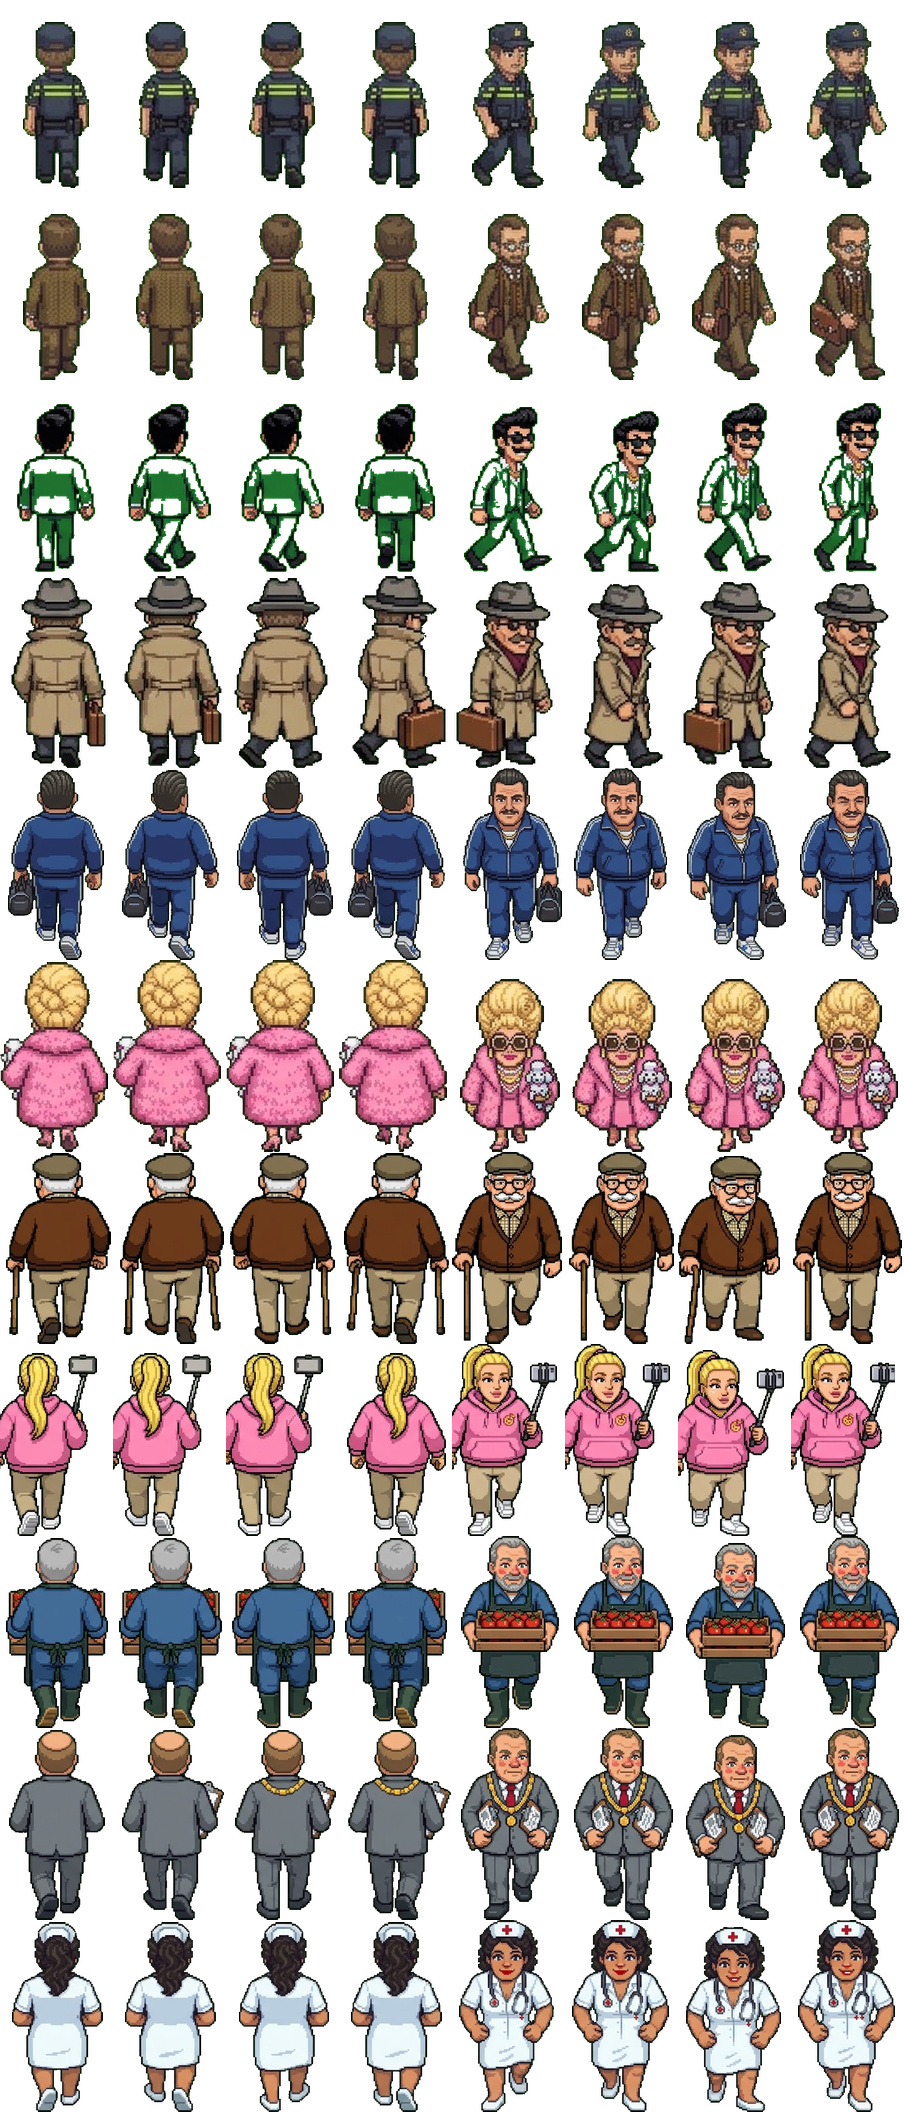
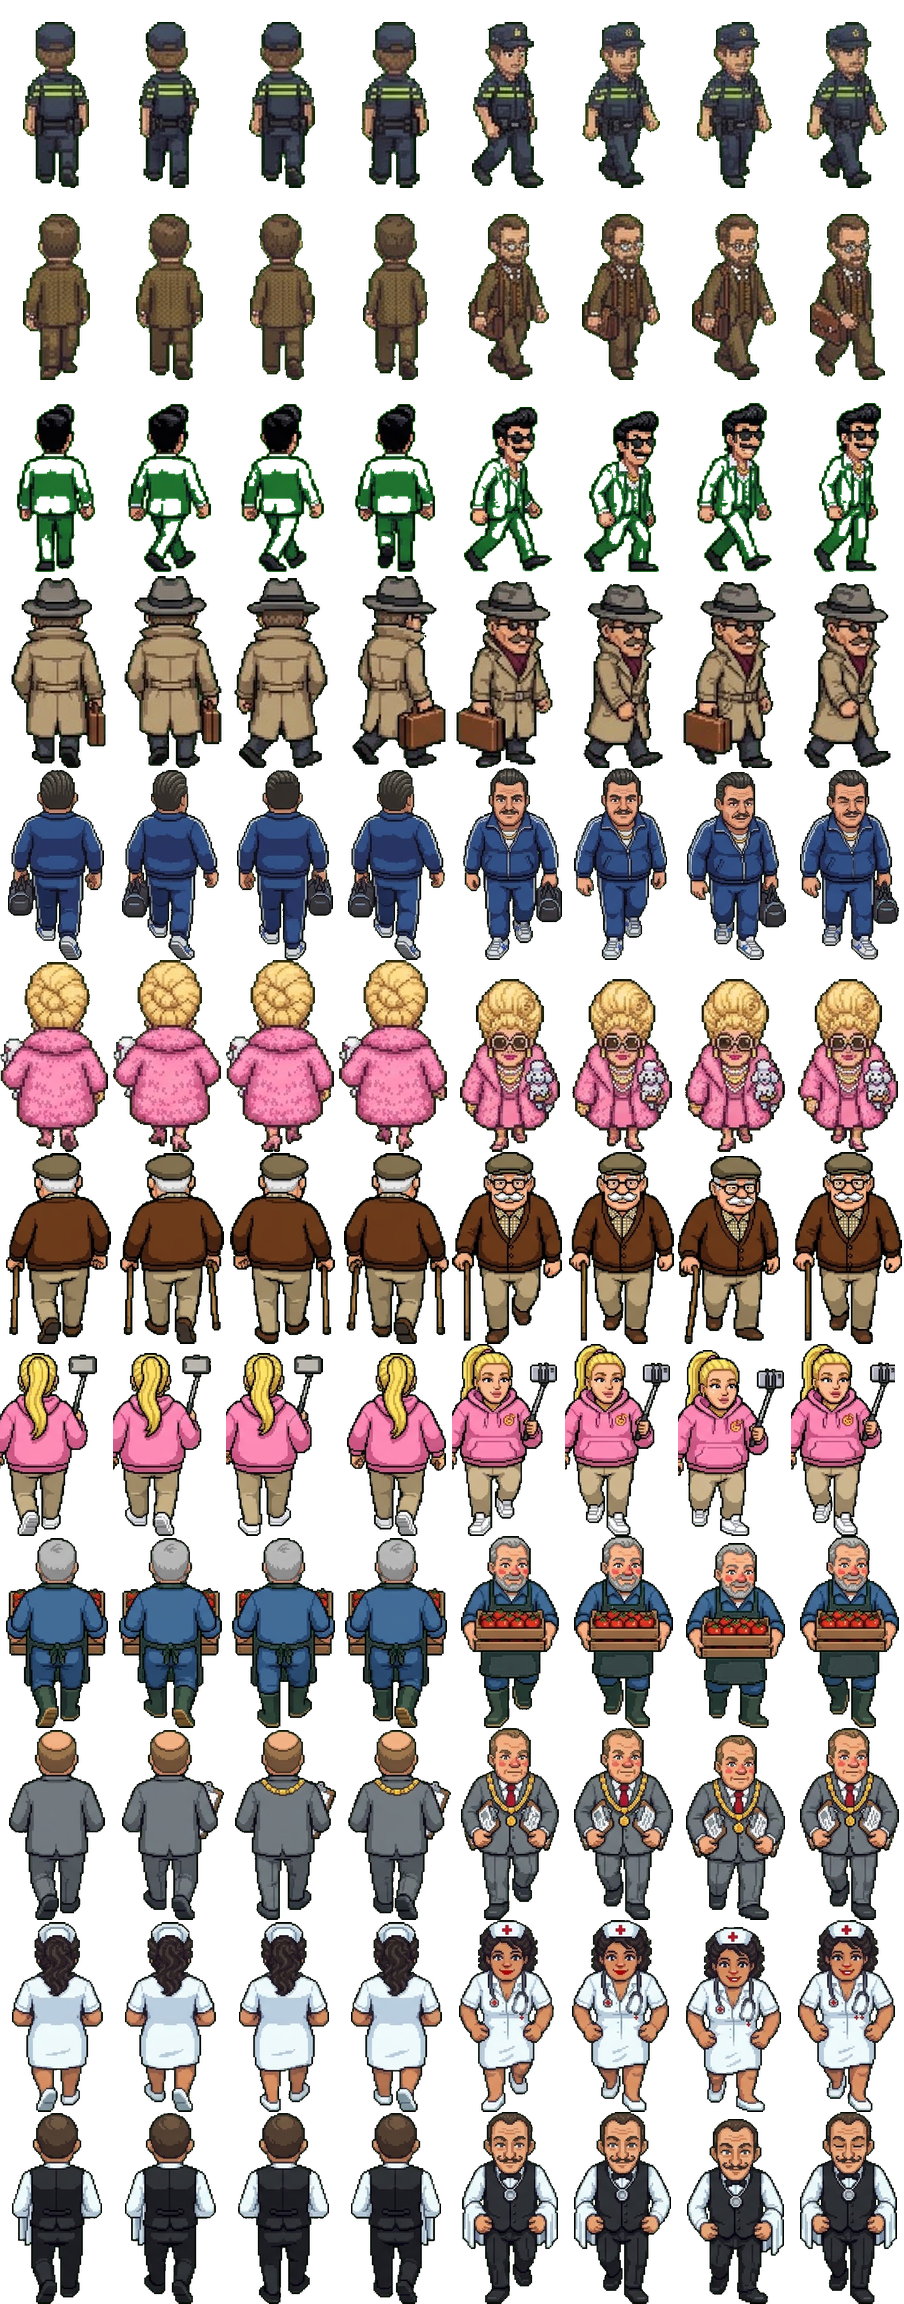
Pizzabaas: wijnkelder Château Kraanwater in de villawijk, sommelier
Claude-Session: https://claude.ai/code/session_01A1NZDKEqH4AvFTuhgNYDbP

diff --git a/pizzabaas.html b/pizzabaas.html
@@ -66,7 +66,7 @@
   #vraagkaart { text-align: center; max-width: 400px; animation: plop .25s ease-out; }
   @keyframes plop { from { transform: scale(.7); opacity: 0; } }
   .vraagik { font-size: 54px; line-height: 1.1; }
-  .portret { width: 85px; height: 155px; margin: -6px auto 0; background: url(pizza/portretten.png) 0 0 / 1020px 155px no-repeat; image-rendering: pixelated; } /* agent, inspecteur (uit pizza/agent-gemini.jpg, pizza/inspecteur-gemini.jpg) */
+  .portret { width: 85px; height: 155px; margin: -6px auto 0; background: url(pizza/portretten.png) 0 0 / 1105px 155px no-repeat; image-rendering: pixelated; } /* agent, inspecteur (uit pizza/agent-gemini.jpg, pizza/inspecteur-gemini.jpg) */
   .vraagwie { font-weight: 800; color: #b5381c; font-size: 15px; }
   .vraagtekst { font-size: 17px; margin: 8px 0 12px; }
   .antwoord { display: block; width: 100%; text-align: left; border: 0; background: #f1e1c4; color: #3a2414; border-radius: 12px; padding: 10px 12px; margin: 7px 0 0; font: 600 15px system-ui, sans-serif; cursor: pointer; }
@@ -86,6 +86,7 @@
   .torenkaart { position: absolute; left: 20%; bottom: 10%; width: 60%; height: 95%; background: url(pizza/toren.png) 0 0 / 400% 100% no-repeat; pointer-events: none; }
   .torenfoto { width: 120px; height: 160px; margin: 6px auto; background: url(pizza/toren.png) 0 0 / 480px 160px no-repeat; }
   .plek:hover, .plek:focus { background: rgba(255,230,120,.25); outline: 3px solid #ffd23f; }
+  .wijnding { display: inline-block; width: 56px; height: 56px; background: url(pizza/wijn.png) 0 0 / 728px 56px no-repeat; vertical-align: middle; } /* pizza/wijn.png: 13 vakjes (uit pizza/wijn-gemini.jpg) */
   .pers { display: inline-block; width: 100px; height: 100px; background: url(pizza/drukpers.png) 0 0 / 400px 100px no-repeat; flex: none; } /* pers, bon, vervalste bon, stapel (pizza/drukpers-gemini.jpg) */
   #drukbalk { position: relative; height: 28px; background: #e8d7b5; border-radius: 14px; margin: 14px 10px 4px; overflow: hidden; }
   #drukgroen { position: absolute; top: 0; bottom: 0; width: 12%; background: #2e9d52; }
@@ -662,7 +663,7 @@ function eindeDag() {
       <tr><td>🚪 Geen plek</td><td>${kl(tel.vol)}</td></tr>
       ${tel.opgeruimd || rommel ? `<tr><td>🧽 Opgeruimd / blijven liggen</td><td>${tel.opgeruimd || 0} / ${rommel}</td></tr>` : ''}
       ${tel.niks ? `<tr><td>🤷 Niks lekkers op de kaart</td><td>${kl(tel.niks)}</td></tr>` : ''}
-      ${tel.bezorgd ? `<tr><td>🛵 Bezorgd${tel.koud ? ` (waarvan ${tel.koud} koud)` : ''}</td><td>${tel.bezorgd}</td></tr>` : ''}${(tel.voorval || []).map((t) => `<tr><td colspan="2" style="font-size:.85em;opacity:.8">🛵 ${esc(t)}</td></tr>`).join('')}
+      ${tel.wijn ? `<tr><td>🍷 Flessen Château verkocht</td><td>${tel.wijn}</td></tr>` : ''}${tel.bezorgd ? `<tr><td>🛵 Bezorgd${tel.koud ? ` (waarvan ${tel.koud} koud)` : ''}</td><td>${tel.bezorgd}</td></tr>` : ''}${(tel.voorval || []).map((t) => `<tr><td colspan="2" style="font-size:.85em;opacity:.8">🛵 ${esc(t)}</td></tr>`).join('')}
       ${tel.aangebrand ? `<tr><td>🔥 Aangebrand (de kok stond te kletsen)</td><td>${tel.aangebrand}</td></tr>` : ''}
       ${top ? `<tr><td>🏆 Meest besteld</td><td>${esc(top[0])} (${kl(top[1])}×)</td></tr>` : ''}
       ${soorten ? `<tr><td>Hoe smaakte het?</td><td>${soorten}</td></tr>` : ''}
@@ -1210,6 +1211,17 @@ const VRAGEN = [
     a: [['Natuurlijk, geef hier!', () => { vandaag.gezellig += 1; if (kans(1 / 6)) { rep(1); return '🔥 Raak! Je spuwt vuur, drinkt de waterkan leeg en huilt van het lachen. De hele zaak juicht.'; } return 'Gewone punt. Pfieuw. Een van de vrienden wordt knalrood en rent naar de wc. Iedereen ligt dubbel.'; }],
       ['Nee, ik moet werken.', () => '"Saai!" roepen ze. Ze spelen het spelletje zelf. Er wordt flink gegild.'],
       ['Laat Mario maar.', () => { if (kans(1 / 6)) { kokTraag(); return 'Mario pakt de hete! Hij bakt de rest van de avond met tranen in zijn ogen. Langzaam.'; } vandaag.fooi *= 1.05; return 'Mario kauwt cool en zegt: "In Napels eten we dit als ontbijt." Meer fooi!'; }] ] },
+  { id: 'kelder', ik: '🧐', wie: 'Heer met een monocle', kans: 6, als: () => S.buurt == 'villa' && !S.kamer,
+    vraag: 'Ah, garçon. Heeft u in uw kelder nog een fles Château Lafitte van 1982? Ik betaal er graag voor. Héél graag.',
+    a: [['Wij hebben alleen huiswijn, meneer.', () => '"Huiswijn." Hij spreekt het uit alsof het een vies woord is.'],
+      ['Wij hebben helemaal geen kelder.', () => '"Geen kelder? Mon dieu." Hij laat een fooi van één cent achter.'],
+      ['Natuurlijk, ik haal hem even…', () => { S.kamer = S.dag; ge(80); return 'Je rent naar achteren. Geen kelder, geen Lafitte… alleen een doos wijn van € 3. Een fles, een trechter en een mooi etiket later krijgt de heer zijn "Lafitte". Hij betaalt € 80 en zucht van genot. 🗝 Linksboven zit nu een sleuteltje: je wijnkelder!'; }] ] },
+  { id: 'sommelier', ik: '🍷', portret: 12, rij: 11, wie: 'Sommelier Sébastien', kans: () => S.wijn && S.wijn.n ? 6 : 0, als: () => S.buurt == 'villa' && S.wijn && S.wijn.n > 0,
+    vraag: () => `Een heer met een zilveren proefnapje snuift de lucht op. "Ik hoorde dat u een ${WIJNNAAM[(S.wijn || {}).naam] || 'Château'} van ${(S.wijn || {}).jaar || 'een goed jaar'} schenkt. Mag ik… proeven?"`,
+    a: [['Proeft u maar.', () => { if (!S.wijn || S.wijn.q >= 0.8) { rep(3); return 'Hij walst, snuift, slurpt en sluit zijn ogen. "Magnifique. Tonen van eikenhout en… nostalgie." Hij vertelt het overal rond!'; }
+        S.wijn = null; ge(-150); rep(-5); return '"Tonen van… kraanwater? En kartonnen pak!" Hij roept de keuringsdienst. Al je flessen in beslag en € 150 boete.'; }],
+      ['Helaas, net de laatste fles verkocht.', () => '"Dommage." Hij kijkt je lang aan en vertrekt.'],
+      ['Een glaasje van het huis, gratis?', () => { if (kans(0.5)) { rep(1); return 'Hij proeft de huiswijn, trekt een gezicht, maar vergeet de Château te vragen.'; } if (S.wijn) S.wijn.n = Math.max(0, S.wijn.n - 3); rep(-2); return 'Hij proeft toch stiekem van een "Château". Hij zegt niks, maar kijkt heel streng. Je gooit voor de zekerheid drie flessen weg.'; }] ] },
   { id: 'gleufhoed', ik: '🎩', portret: 4, rij: 3, wie: 'Gerrit Gleufhoed', kans: 4, als: () => S.spullen.some((s) => s.t == 'schilderij') && !S.achterkamer,
     vraag: 'Hij staat al een tijdje naar je schilderij te kijken. "Wat een mooi schilderij… Wie is de schilder?"',
     a: [['Dat heeft mijn neefje gemaakt.', () => 'Hij knikt beleefd. "Talentvol neefje." Hij eet zijn pizza en vertrekt.'],
@@ -1616,6 +1628,45 @@ function bordLijst(onderdeel, el, eenheid, d) {
   fetch(BORD_URL, { redirect: 'follow' }).then((r) => r.json()).then((d) => { try { localStorage.setItem('pizzabaas_bord', JSON.stringify(d)); } catch (e) {} zet(d); }).catch(() => {});
 }
 
+// ---------- de wijnkelder (achterkamer in de villawijk): Château Kraanwater ----------
+// Een villabewoner bestelt een fles (`S.wijnOrder` = { naam, jaar, fles, deco: [3 van de 5 versieringen] }); je maakt zo'n etiket na (fles, jaartal
+// en versieringen kiezen) en vult 6 flessen met wijn van € 3 (`WIJNBATCH`). Kwaliteit q = hoeveel er klopt. De flessen (`S.wijn` = { n, q, naam, jaar })
+// verkopen zich tijdens de werkdag aan villabewoners die klaar zijn met eten: € 20 + € 70 q per fles. De sommelier (vraag 'sommelier') proeft soms.
+// pizza/wijn.png: 0 groene fles, 1 elegante fles, 2 stoffige fles, 3 champagne, 4 kasteel, 5 wapen, 6 lakzegel, 7 druiven, 8 gouden lijst, 9 kist, 10 doos, 11 trechter, 12 glas
+const WIJNNAAM = { lafitte: 'Château Lafitte', margaux: 'Château Margaux', petrus: 'Château Pétrus', kraanwater: 'Château Kraanwater' };
+const WIJNDECO = [4, 5, 6, 7, 8], WIJNJAAR = [1961, 1975, 1982, 1990, 2005], WIJNBATCH = { n: 6, prijs: 18 };
+const wijnDing = (i, px = 56) => `<span class="wijnding" style="width:${px}px;height:${px}px;background-size:${13 * px}px ${px}px;background-position:${-i * px}px 0"></span>`;
+function nieuweWijnOrder() { const d = [...WIJNDECO].sort(() => Math.random() - 0.5).slice(0, 3).sort();
+  S.wijnOrder = { naam: pak(['lafitte', 'margaux', 'petrus']), jaar: pak(WIJNJAAR), fles: pak([1, 2]), deco: d }; }
+let wijnMaak = null;
+function wijnBlok() {
+  if (!S.wijnOrder) nieuweWijnOrder(); const o = S.wijnOrder, w = S.wijn;
+  return `<div class="opdracht"><div>${wijnDing(o.fles, 70)}</div><div><b>Bestelling uit de villawijk</b><br>"${esc(WIJNNAAM[o.naam])}, ${o.jaar}". Het echte etiket heeft: ${o.deco.map((i) => wijnDing(i, 34)).join('')}<br><small>Onthoud het goed: bij het namaken zie je het niet!</small><br>
+    <small>${w && w.n ? `In de kelder: ${w.n} flessen "${esc(WIJNNAAM[w.naam])}" (${Math.round(w.q * 100)}% echt). Ze worden verkocht aan villabewoners.` : 'Je kelder is leeg.'}</small></div></div>
+    <div class="rij"><button class="knop rood" id="wijnmaak" ${S.geld < WIJNBATCH.prijs || (w && w.n) ? 'disabled' : ''}>🍷 ${w && w.n ? 'Eerst de flessen verkopen' : `Wijn bottelen: ${WIJNBATCH.n} flessen (€ ${WIJNBATCH.prijs})`}</button></div>`;
+}
+function toonWijn() {
+  wijnMaak = wijnMaak || { fles: 0, jaar: WIJNJAAR[0], deco: [] }; const o = S.wijnOrder, m = wijnMaak;
+  $('achterkaart').innerHTML = `<h1>🍷 Château Kraanwater</h1>
+    <p class="buurt">Wijn uit een pak van € 3, een trechter en een mooi etiket. Bestelling: <b>${esc(WIJNNAAM[o.naam])}</b>. Weet je nog hoe de echte fles eruitzag? Welke fles, welke versieringen en welk jaar? (Kijk gerust nog eens met Terug.)</p>
+    <p><b>Welke fles?</b><br>${[0, 1, 2, 3].map((i) => `<button class="knop ${m.fles == i ? 'rood' : ''}" data-fles="${i}" style="padding:2px">${wijnDing(i, 54)}</button>`).join(' ')}</p>
+    <p><b>Wat komt er op het etiket?</b> (tik aan of uit)<br>${WIJNDECO.map((i) => `<button class="knop ${m.deco.includes(i) ? 'rood' : ''}" data-deco="${i}" style="padding:2px">${wijnDing(i, 46)}</button>`).join(' ')}</p>
+    <p><b>Jaartal</b><br>${WIJNJAAR.map((j) => `<button class="knop ${m.jaar == j ? 'rood' : ''}" data-jaar="${j}">${j}</button>`).join(' ')}</p>
+    <div class="rij"><button class="knop rood" id="wijnvul">🍾 Vullen en etiketten plakken</button><button class="knop" id="wijnterug">Terug</button></div>`;
+  const k = $('achterkaart');
+  k.querySelectorAll('[data-fles]').forEach((b) => b.onclick = () => { m.fles = +b.dataset.fles; toonWijn(); });
+  k.querySelectorAll('[data-jaar]').forEach((b) => b.onclick = () => { m.jaar = +b.dataset.jaar; toonWijn(); });
+  k.querySelectorAll('[data-deco]').forEach((b) => b.onclick = () => { const i = +b.dataset.deco; m.deco = m.deco.includes(i) ? m.deco.filter((x) => x != i) : [...m.deco, i]; toonWijn(); });
+  $('wijnterug').onclick = () => toonAchterkamer();
+  $('wijnvul').onclick = () => { const goedDeco = WIJNDECO.filter((i) => o.deco.includes(i) == m.deco.includes(i)).length / WIJNDECO.length;
+    const q = goedDeco * 0.6 + (m.jaar == o.jaar ? 0.25 : 0) + (m.fles == o.fles ? 0.15 : 0); S.geld -= WIJNBATCH.prijs; kassa();
+    S.wijn = { n: WIJNBATCH.n, q, naam: o.naam, jaar: o.jaar }; nieuweWijnOrder(); wijnMaak = null; bewaar(); tekenKnoppen(); ding(900, 0.06); setTimeout(() => ding(700, 0.06), 90);
+    $('achterkaart').innerHTML = `<h1>${q >= 0.8 ? '🤩 Niet van echt te onderscheiden!' : q >= 0.5 ? '🙂 Van een afstandje…' : '😬 Dat ziet er nep uit…'}</h1><p>${wijnDing(m.fles, 80)} Je ${WIJNBATCH.n} flessen "${esc(WIJNNAAM[S.wijn.naam])}" zijn voor <b>${Math.round(q * 100)}%</b> echt.
+      De villabewoners kopen ze tijdens het eten, voor € ${20 + Math.round(70 * q)} per fles.</p><p class="buurt">${q < 0.8 ? 'Pas op voor de sommelier: die proeft het verschil.' : 'Zelfs een sommelier zou erin trappen.'}</p>
+      <div class="rij"><button class="knop rood" id="achterterug">🍕 Terug naar de pizzeria</button></div>`;
+    $('achterterug').onclick = () => $('achter').classList.add('verborgen'); };
+}
+
 // ---------- de gokhal (achterkamer aan het plein): roulette met fiches van € 10 ----------
 // Europese roulette (0-36). Inzet op rood/zwart/even/oneven = x2, groen (0) = x36. Drie rondes, of eerder stoppen; daarna gaan de fiches
 // vanzelf terug naar je kassa. Fiches kopen met contant geld, of met al je munten van één crypto (koers van vandaag, 5% voor het huis).
@@ -1709,10 +1760,10 @@ const ruzieTekst = () => { const z = S.ruzie || 0; return z < 1 ? '😇 vrede' :
 function toonAchterkamer() {
   if (!S.opdracht || S.opdracht.tot < S.dag) nieuweOpdracht();
   const o = S.opdracht, klaar = (S.vervalsingen || []);
-  const eerste = !S.zaak, pers = eerste ? S.pers : S.buurt == 'studenten', gok = S.buurt == 'toeristen';
+  const eerste = !S.zaak, pers = eerste ? S.pers : S.buurt == 'studenten', gok = S.buurt == 'toeristen', wijn = S.buurt == 'villa';
   $('achterkaart').innerHTML = `<h1>🗝 De achterkamer</h1>
-    <p class="buurt">${eerste ? 'Een stoffig kamertje achter de keuken. Een ezel, potten verf, en een lamp die flikkert.' : gok ? 'Achter een zwaar gordijn: groen vilt, rook, en het geratel van een roulettebalnetje.' : pers ? 'Een benauwd hok vol oude posters en een stoffige machine in de hoek.' : 'Een kaal kamertje. Hier moet nog iets komen…'} Niemand weet ervan… hopelijk.</p>
-    ${gok ? `<div class="opdracht"><span style="font-size:60px">🎰</span><div><b>De gokhal</b><br>Fiches kopen, drie rondjes roulette, en wat je overhoudt gaat weer in je kassa.<br><small>Pas op: soms valt de politie binnen.</small></div></div>
+    <p class="buurt">${eerste ? 'Een stoffig kamertje achter de keuken. Een ezel, potten verf, en een lamp die flikkert.' : gok ? 'Achter een zwaar gordijn: groen vilt, rook, en het geratel van een roulettebalnetje.' : pers ? 'Een benauwd hok vol oude posters en een stoffige machine in de hoek.' : wijn ? 'Een koele kelder vol lege flessen, een berg wijnpakken en een trechter.' : 'Een kaal kamertje.'} Niemand weet ervan… hopelijk.</p>
+    ${wijn ? wijnBlok() : ''}${gok ? `<div class="opdracht"><span style="font-size:60px">🎰</span><div><b>De gokhal</b><br>Fiches kopen, drie rondjes roulette, en wat je overhoudt gaat weer in je kassa.<br><small>Pas op: soms valt de politie binnen.</small></div></div>
       <div class="rij"><button class="knop rood" id="gokken">🎰 Naar de roulettetafel</button></div>` : ''}
     ${eerste ? `<div class="opdracht">${schilderijPlaatje(o.v, 84)}<div><b>Bestelling van Gerrit Gleufhoed</b><br>"${esc(SCHILDERIJEN[o.v])}", zo echt mogelijk.<br>
       Hij betaalt tot <b>€ ${o.prijs}</b> (hoe echter, hoe meer).<br><small>Uiterlijk ${esc(datumLang(o.tot))}.</small></div></div>
@@ -1729,6 +1780,7 @@ function toonAchterkamer() {
       <div class="rij">${Object.entries(VREDE).map(([k, d]) => `<button class="knop" data-vrede="${k}" ${!S.ruzie || S.geld < d.prijs ? 'disabled' : ''}>${d.ik} Vrede: ${esc(d.n)} voor Luigi (€ ${d.prijs})</button>`).join('')}</div>` : ''}
     ${eerste ? '<p class="buurt">Pas op: er loopt een kunstrechercheur door de stad. Laat geen vervalsingen te lang liggen.</p>' : ''}<div class="rij"><button class="knop" id="achterdicht">Deur dicht</button></div>`;
   if ($('gokken')) $('gokken').onclick = () => toonGokhal();
+  if ($('wijnmaak')) $('wijnmaak').onclick = () => toonWijn();
   $('achter').classList.remove('verborgen');
   $('achterdicht').onclick = () => { $('achter').classList.add('verborgen'); barrieUit = ''; };
   $('achterkaart').querySelectorAll('[data-koop]').forEach((b) => b.onclick = () => { const c = crypto(), k = b.dataset.koop, max = Math.floor(S.bankSaldo || 0);
@@ -2146,6 +2198,8 @@ function stap(dt) {
       // hoe lekker (0-6) bepaalt de fooi en of ze het doorvertellen
       const o = m.oordeel, prijs = m.pizza.prijs * TELT, fooi = Math.max(0, gezellig(m.tafel) * 0.4 + (o - 2) * 0.5 + (m.wacht < 18 ? 1 : 0)) * vandaag.fooi * TELT + (m.chef ? 3 : 0); // TELT: anderhalve klant; m.chef: de kok kwam even flirten
       S.geld += prijs + fooi; tel.omzet += prijs; tel.fooi += fooi; tel.blij++; tel.lekker += o;
+      if (S.wijn && S.wijn.n > 0 && S.buurt == 'villa' && (m.soort == 'villa' || kans(0.2)) && kans(0.6)) { const w = 20 + Math.round(70 * S.wijn.q); S.wijn.n--; ge(w); tel.wijn = (tel.wijn || 0) + 1; // een fles Château bij het eten
+        muntjes.push({ x: m.x, y: m.y - 0.6, t: 1.4, tekst: '🍷 +€' + w }); if (!S.wijn.n) S.wijn = null; }
       tel.verkocht[m.pizza.naam] = (tel.verkocht[m.pizza.naam] || 0) + 1;
       const s = tel.soort[m.soort] = tel.soort[m.soort] || [0, 0]; s[0]++; s[1] += o; // aantal, totaal oordeel
       S.rep = Math.max(0, Math.min(100, S.rep + (o - 2.5) * 0.4 + (m.wacht < 18 ? 0.4 : 0)));

diff --git a/pizza/CLAUDE.md b/pizza/CLAUDE.md
@@ -189,7 +189,7 @@ Nu 106 vragen.
 Achterkamer per zaak (`achterOpen()`: zaak 1 = `S.achterkamer` via Gerrit, andere zaken = `S.kamer`; `kamer` en `achterDag` staan in `ZAAKVELD`).
 Overal de laptop en Barrie (vraag 'barrie' kan in elke zaak met een achterkamer). Zaak 1: atelier (Gerrit, gravin), en de drukpers alleen als
 die al gekocht was; studentenbuurt: drukpers (open via vraag 'printer', antwoord C); plein: gokhal (vraag 'gokker': raad zwart/rood/groen,
-`gokRaad`, goed = open, groen = +€100). Villawijk: nog leeg (plan: wijnvervalsing). Gokhal (`toonGokhal`, `tekenGokhal`, `draaiWiel`,
+`gokRaad`, goed = open, groen = +€100). Villawijk: wijnkelder (vraag 'kelder', antwoord C). Gokhal (`toonGokhal`, `tekenGokhal`, `draaiWiel`,
 `klaarWiel`, Europese roulette `WIEL`, `FICHE` = €10): fiches kopen met contant of met al je munten van één crypto (−5%), inzet 1/2/5/10 op
 rood/zwart/even/oneven (×2) of groen (×36), drie rondes, daarna fiches automatisch terug in de kassa; 4% kans op een inval per draai
 (fiches weg, €100 boete, populariteit −3). In die zaak vragen 'gokwinst' en 'gokverlies'. Vraag 'pepperoni' (pepperoni-roulette) overal.
@@ -197,3 +197,9 @@ Stadskaart: eigen zaken tonen hun populariteit (⭐). Eetwedstrijd bij het stude
 `S.eetDag`, €10 inleg): 20 s tikken op je pizza (5 happen = 1 punt, na elke 6 punten eerst 🥤 slurpen) tegen Vreetzak Vincent (~1,6 punt/s, soms
 een boer); winnen = €60, populariteit +2, morgen meer studenten. Record `S.eetBest`, scorebord-onderdeel `eetwedstrijd` (`stuurRecord`, `bordLijst`).
 Getest: 6 tikken/s = gelijkspel, 8/s = winst.
+Wijnkelder "Château Kraanwater" (villawijk): bestelling `S.wijnOrder` (naam, jaar, fles, 3 van de 5 versieringen `WIJNDECO`), te zien in de
+achterkamer (`wijnBlok`); namaken in `toonWijn` uit je hoofd (fles, versieringen, jaar), 6 flessen voor €18 (`WIJNBATCH`), q = 0,6 versieringen
++ 0,25 jaar + 0,15 fles. `S.wijn` = { n, q, naam, jaar }: tijdens de dag kopen villabewoners (en soms anderen) bij het eten een fles voor
+€20 + €70q (`tel.wijn` in het dagoverzicht). Sommelier Sébastien (vraag 'sommelier', bezoeker rij 11, portret 12, uit `pizza/sommelier-gemini.jpg`)
+proeft als er flessen liggen: q < 0,8 = betrapt (flessen weg, €150 boete, populariteit −5). Plaatjes `pizza/wijn.png` (13 vakjes van 160, uit
+`pizza/wijn-gemini.jpg`, volgorde staat bij `WIJNNAAM` in de code; `wijnDing`).

diff --git a/pizza/PLAN.md b/pizza/PLAN.md
@@ -190,11 +190,11 @@ Vellen klaar voor later (26 okt): managers `pizza/manager-kevin-gemini.jpg` (goe
   op de markt, met het online scorebord; (3) "Toren van Pizza" als speciaal gerecht of als versiering (scheef torentje) in de zaak.
 - Idee Marcel (27 okt): Pizzakoning pas met 4 pizzeria's (gedaan), en in elke zaak iets speciaals (nog uitwerken, zie voorstel in de chat:
   studentenbuurt = eetwedstrijd/studentenavond, plein = selfiemuur/straatmuzikant, villawijk = wijnkelder/sterrenchef).
-- **Achterkamers per zaak** (afspraak Marcel, 27 okt; **gebouwd** behalve de villawijk = wijn): in élke zaak een achterkamer met Barrie (Luigi kan overal saboteren) en de
+- **Achterkamers per zaak** (afspraak Marcel, 27 okt; **gebouwd**, ook de wijn): in élke zaak een achterkamer met Barrie (Luigi kan overal saboteren) en de
   laptop, plus één eigen ding: zaak 1 = atelier met Gerrit en de gravin; zaak 2 (studentenbuurt) = drukpers; zaak 3 (plein) = illegale gokhal
   met roulettetafel (minispel, inzetten tegen een gokker); zaak 4 (villawijk) = voorstel Claude: wijnvervalsing "Château Kraanwater"
   (goedkope wijn in dure flessen, etiketten namaken, een sommelier als rechercheur). Geen bontjassen (Marcel: zielig en niet ethisch).
-- **Extra activiteit per buurt** (boven, legaal): studentenbuurt = eetwedstrijd; voorstellen Claude: plein = pizza-acrobatiek op straat
+- **Extra activiteit per buurt** (boven, legaal): studentenbuurt = eetwedstrijd (**gedaan**); voorstellen Claude: plein = pizza-acrobatiek op straat
   (deeg opgooien, minispel), villawijk = wijnproeverij/diner voor de sterrenchef. Vraag-idee Marcel "Russische roulette": voorstel om er
   "pepperoni-roulette" van te maken (één punt met een gloeiend hete peper) i.p.v. iets met wapens.
 - Meer ideeën (Claude, 27 okt): Gouden Pizzaschep (recensent incognito), pizzawedstrijd op de markt tegen Luigi, smokkeltruffel via Barrie
